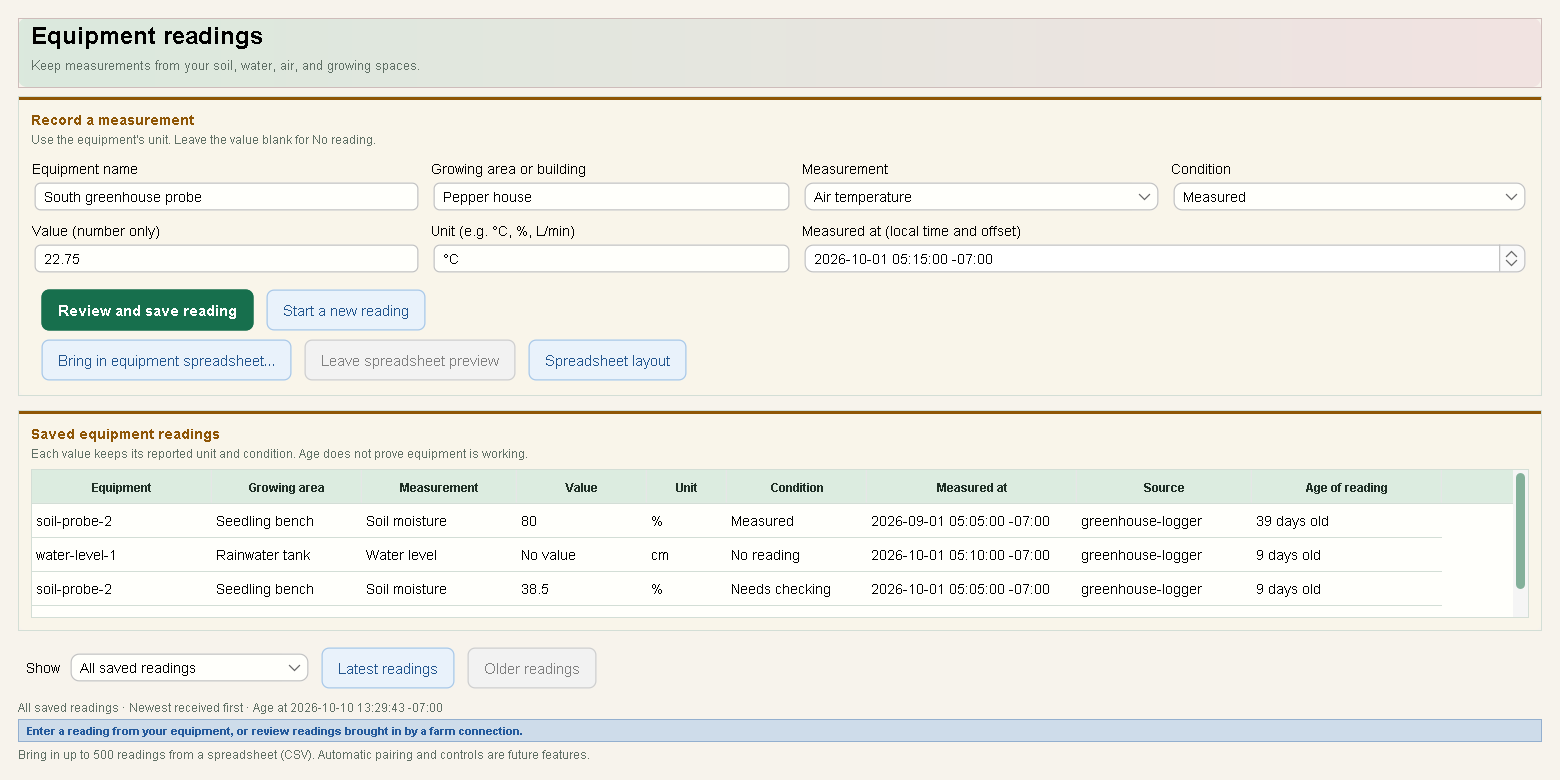
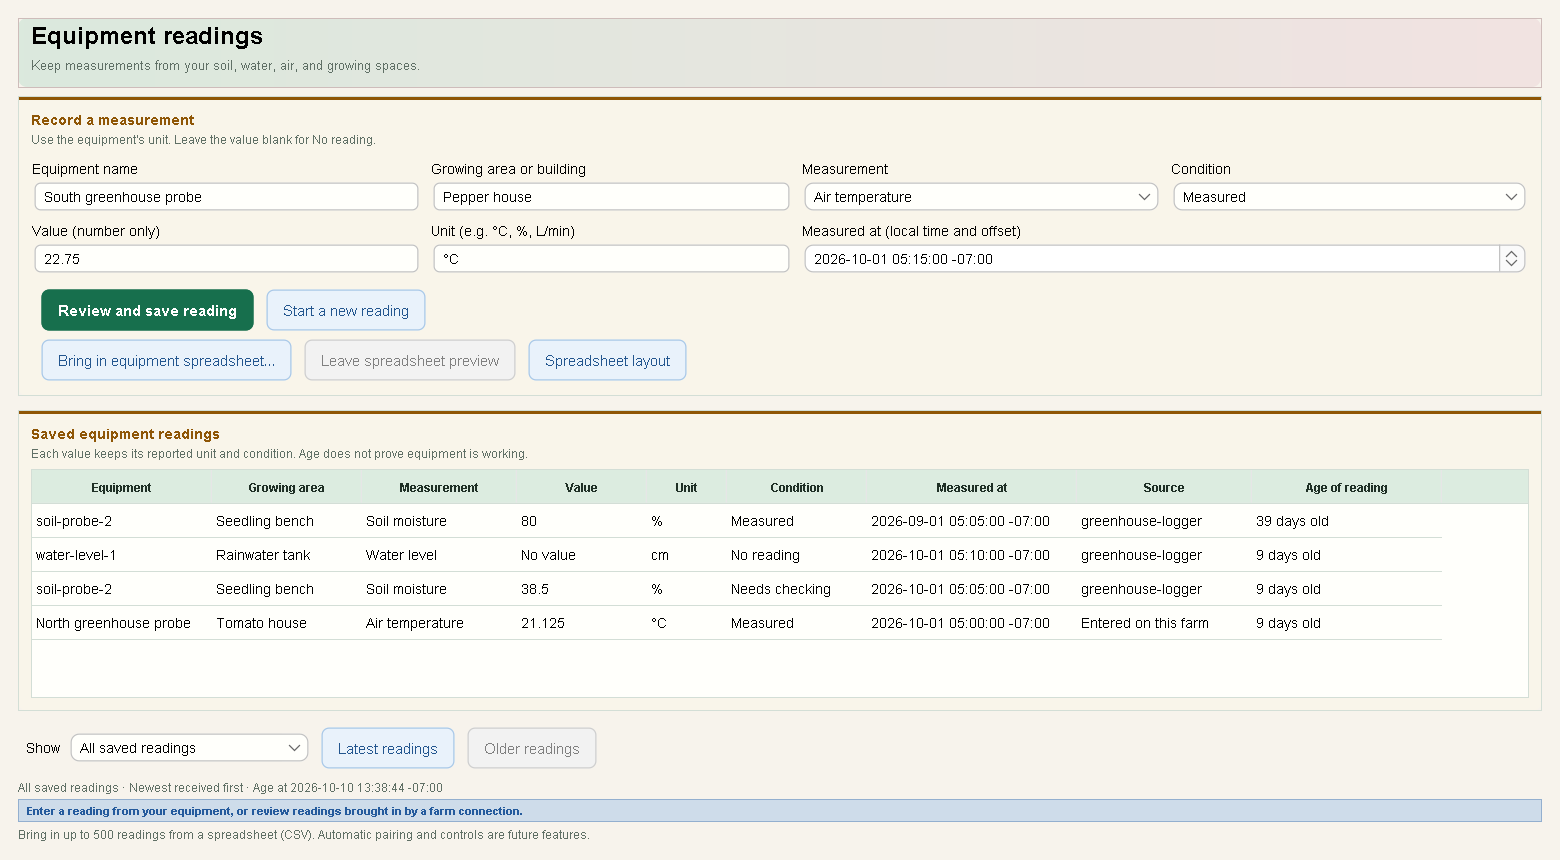
Size equipment readings page from actual table and controls

diff --git a/src/main/java/com/flowerfarm/gui/tabs/EquipmentReadingsTab.java b/src/main/java/com/flowerfarm/gui/tabs/EquipmentReadingsTab.java
@@ -153,6 +153,8 @@ public final class EquipmentReadingsTab implements FlowerFarmTab {
         table.setDefaultRenderer(Object.class, plain);
         JScrollPane history = FarmUi.tableScroll(table);
         history.setColumnHeaderView(table.getTableHeader());
+        history.setPreferredSize(new Dimension(800, table.getTableHeader().getPreferredSize().height
+                + table.getRowHeight() * 4 + history.getHorizontalScrollBar().getPreferredSize().height + 2));
         root.add(FarmUi.section("Saved equipment readings", "Each value keeps its reported unit and condition. Age does not prove equipment is working.",
                 history), BorderLayout.CENTER);
         JPanel bottom = new JPanel(new BorderLayout(4, 4));
@@ -205,7 +207,7 @@ public final class EquipmentReadingsTab implements FlowerFarmTab {
 
         @Override public Dimension getPreferredSize() {
             Dimension preferred = super.getPreferredSize();
-            return new Dimension(preferred.width, 780);
+            return new Dimension(preferred.width, Math.max(780, preferred.height));
         }
         @Override public Dimension getPreferredScrollableViewportSize() { return getPreferredSize(); }
         @Override public int getScrollableUnitIncrement(Rectangle visible, int orientation, int direction) { return 24; }
